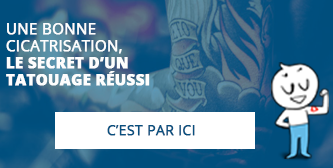
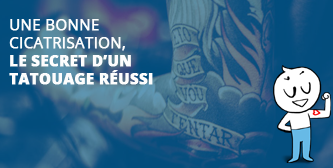
uriage + moneytizer

diff --git a/public/css/global.less b/public/css/global.less
@@ -1216,6 +1216,20 @@ body .top-wrapper-mask {
 	}
 }
 
+.btn-uriage{
+	position: absolute;
+	bottom: 20px;
+	background: white;
+	border-radius: 0px;
+	margin-left: 28%;
+	margin-right: auto;
+	text-transform: uppercase;
+	&:hover{
+		background: #EFEFEF;
+		text-decoration: underline;
+	}
+}
+
 .autopromo {
 	cursor:pointer;
 
@@ -1909,20 +1923,4 @@ body .top-wrapper-mask {
 		padding-right: 0px !important;
 		padding-right: 15px !important;
 	}
-}
-
-.lang-es #top-menu-fixed .navbar-right > li:first-child {  
-    font-size: 25px;
-    font-family: inherit;
-    color: #ffffff;
-    font-weight: normal;
-    text-transform: uppercase;
-    margin-top: 10px;
-    margin-right: 40px;
-    line-height: 1;
-    img {
-	    height: 30px;
-	    margin-bottom: 5px;
-	    margin-left: 10px;
-    }
 }
